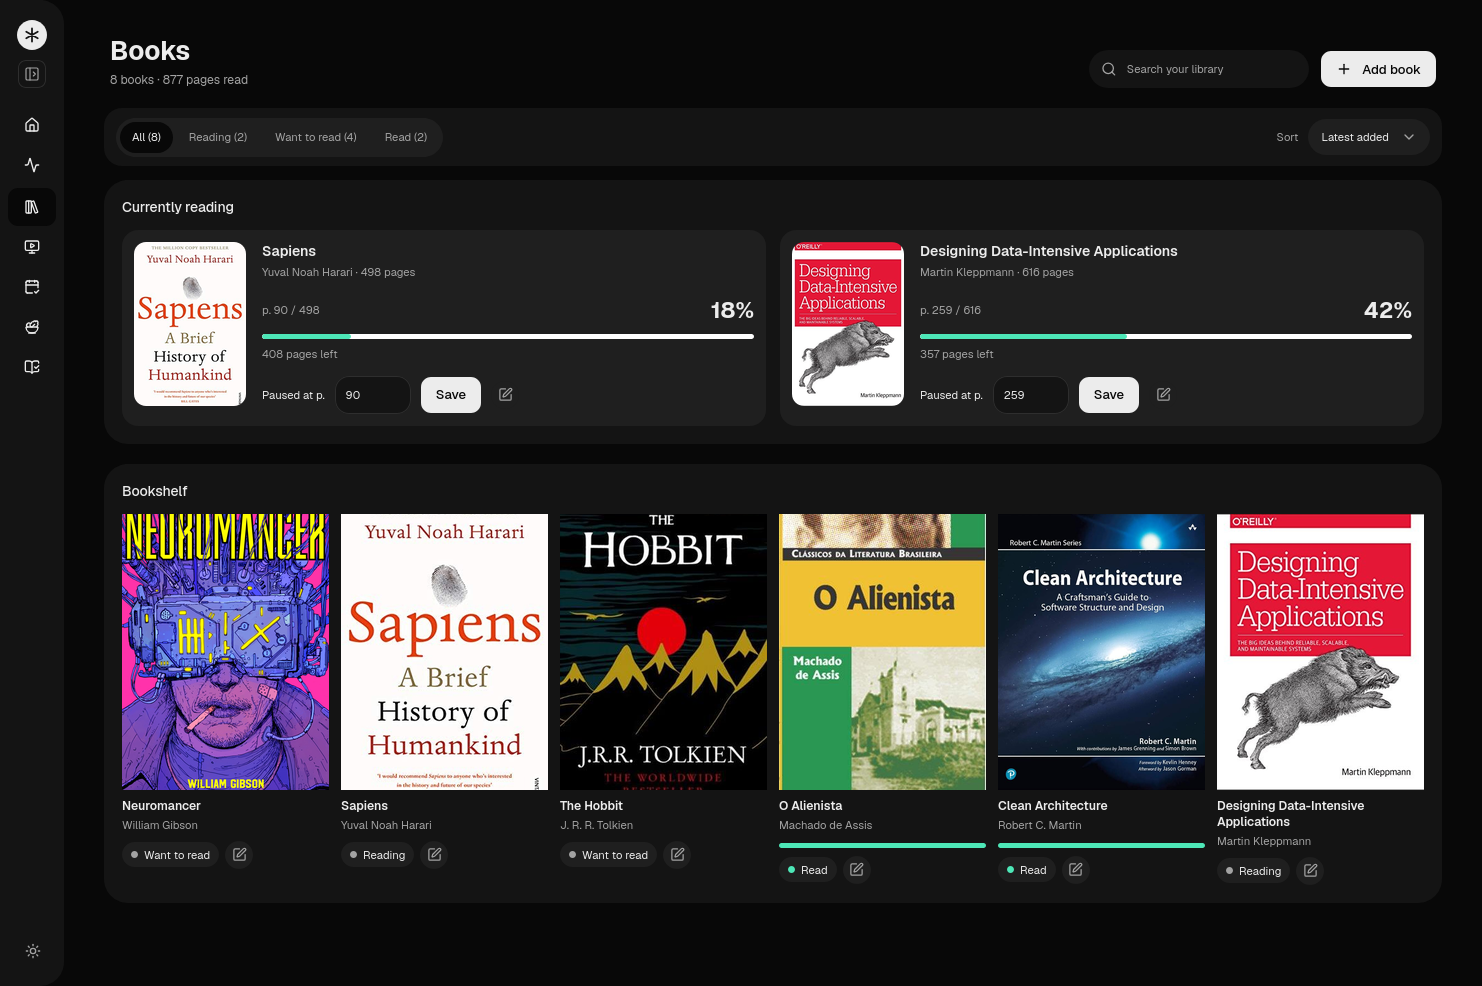
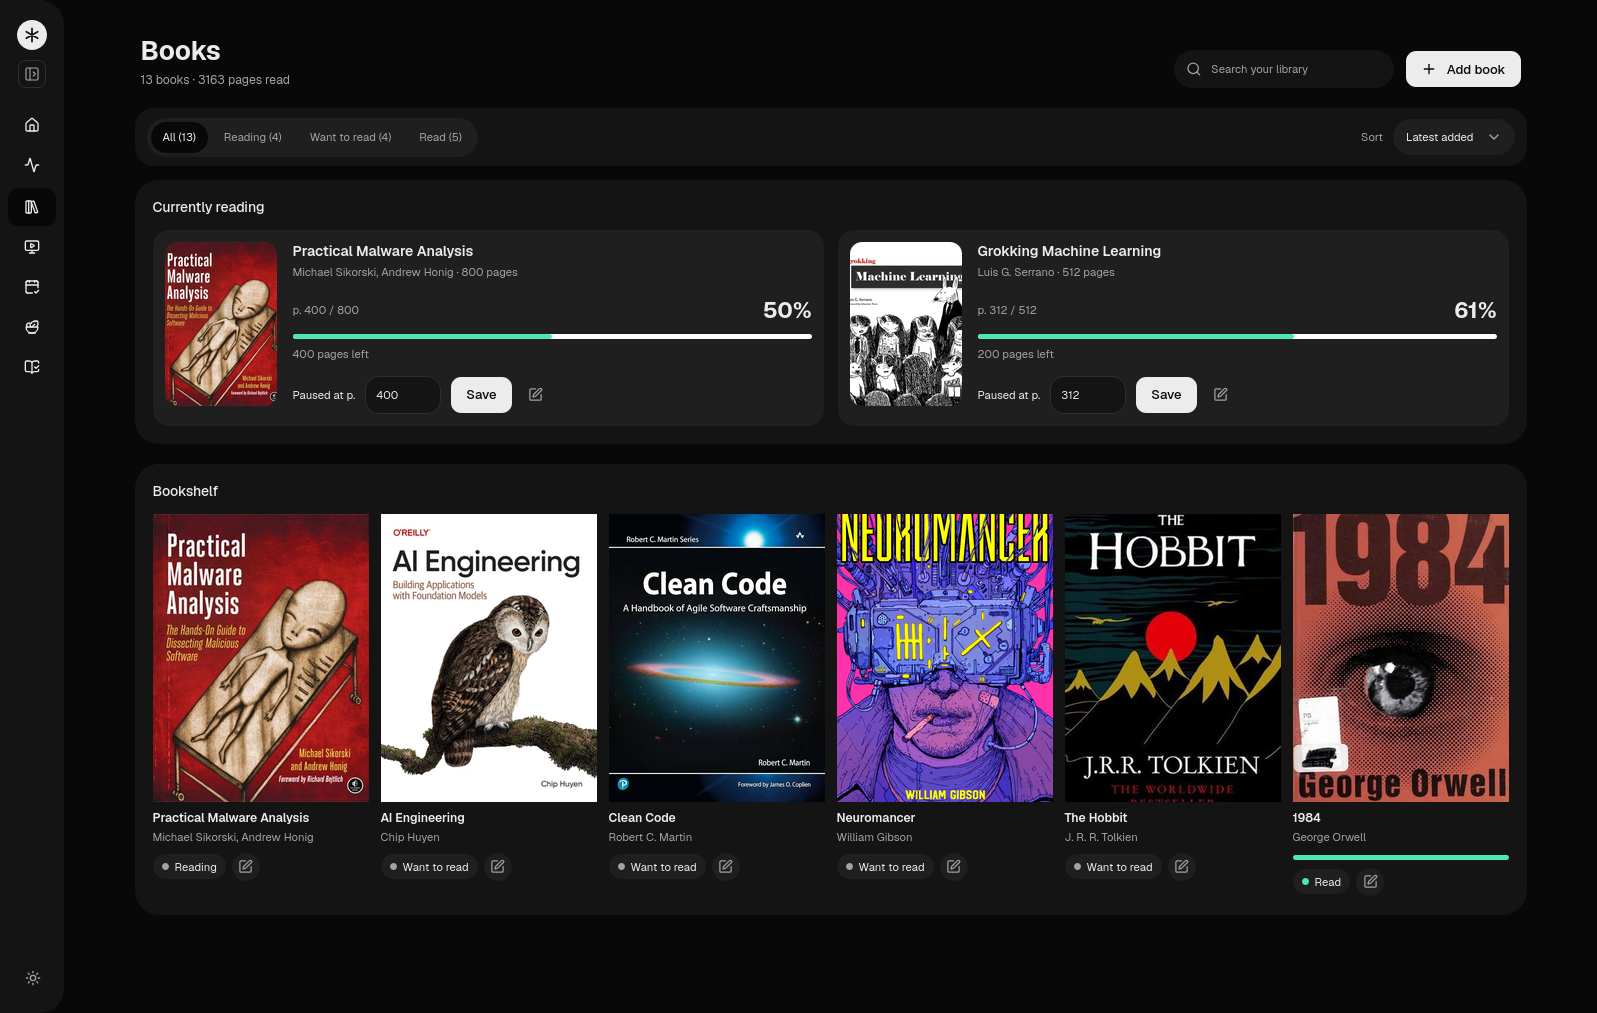
docs(readme): refresh screenshots

diff --git a/README.md b/README.md
@@ -3,22 +3,22 @@
 A web app to track books, movies & series, courses, routine and meals in one place.
 
 <samp>homepage</samp>
-![](/assets/images/home.png)
+![](/assets/images/homepage.png)
 
 <samp>dashboard</samp>
 ![](/assets/images/dash.png)
 
 <samp>books</samp>
-![](/assets/images/dash.png)
+![](/assets/images/books.png)
 
 <samp>movies & series</samp>
-![](/assets/images/movies.png)
+![](/assets/images/movies_and_series.png)
 
-----
+---
 
 **Stack:** Django 6 + DRF (Python 3.14) · React 19 + TypeScript + Vite · Nginx · Gunicorn · SQLite · Docker Compose
 
-----
+---
 
 ## Architecture
 
@@ -51,12 +51,12 @@ docker run --rm python:3.14-slim python -c "import secrets; print(secrets.token_
 
 ## Documentation
 
-| Topic | Description |
-| --- | --- |
-| [Docker](docs/docker.md) | Running, volumes and data persistence |
-| [Backend](backend_cyberia/README.md) | Django API setup and development |
-| [Frontend](frontend_cyberia/README.md) | React app setup and development |
-| [API collection](bruno/) | Bruno requests for the API |
+| Topic                                  | Description                           |
+| -------------------------------------- | ------------------------------------- |
+| [Docker](docs/docker.md)               | Running, volumes and data persistence |
+| [Backend](backend_cyberia/README.md)   | Django API setup and development      |
+| [Frontend](frontend_cyberia/README.md) | React app setup and development       |
+| [API collection](bruno/)               | Bruno requests for the API            |
 
 ## License
 
